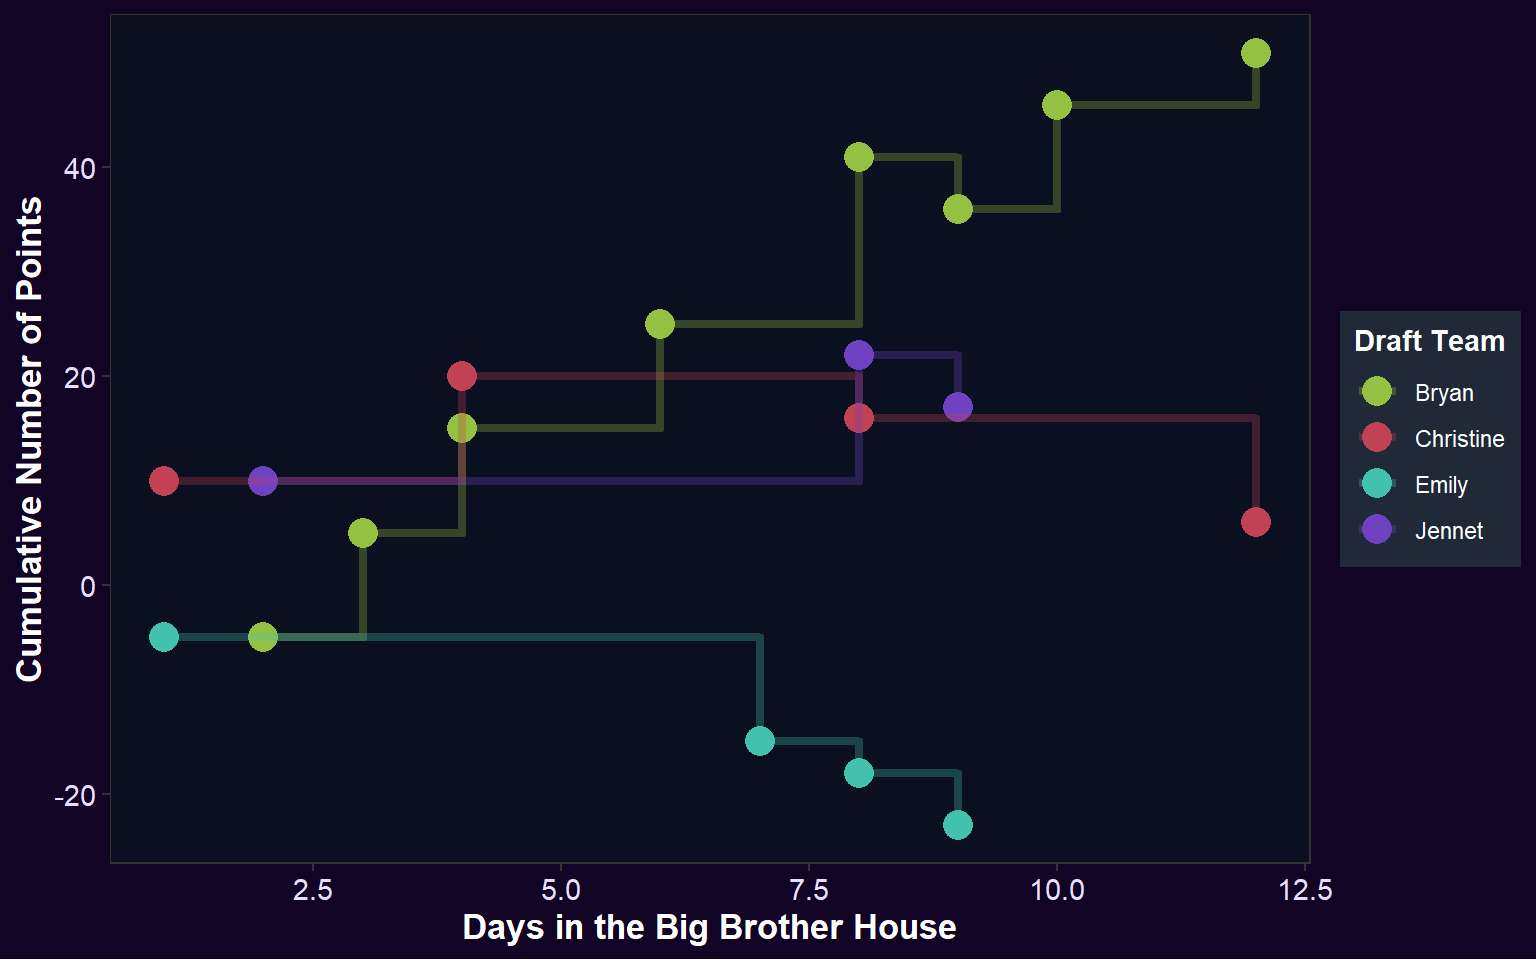
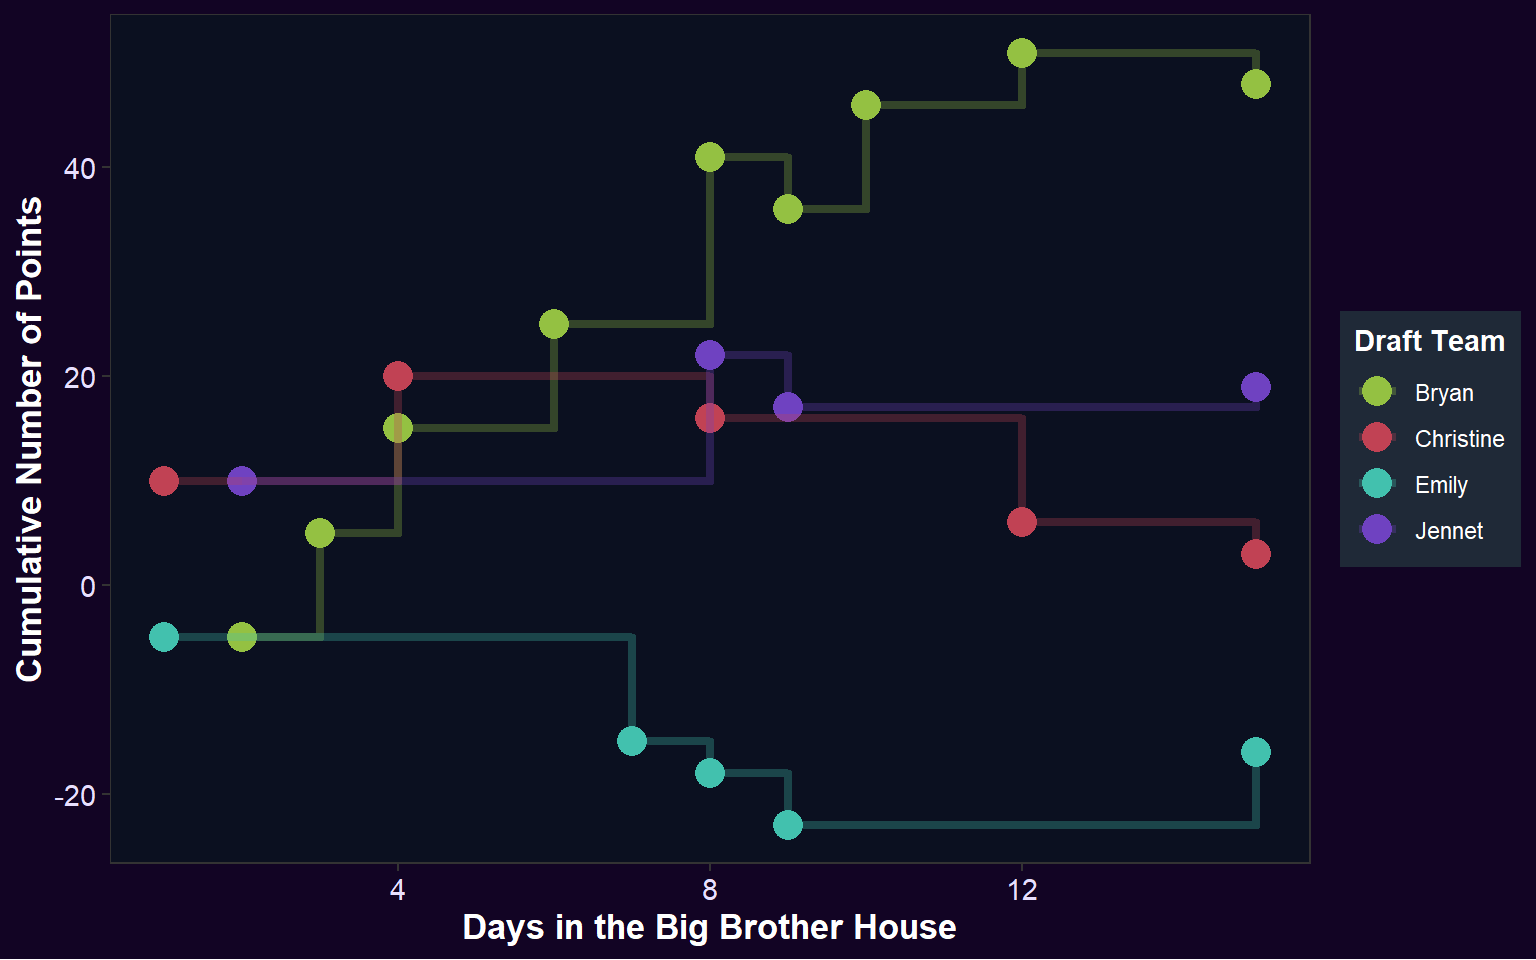
July 23

diff --git a/index.html b/index.html
@@ -133,7 +133,7 @@ grid-auto-rows: minmax(0, 1fr);">
 <td style="text-align: left;">Emily</td>
 <td style="text-align: right;">0</td>
 <td style="text-align: right;">0</td>
-<td style="text-align: right;">0</td>
+<td style="text-align: right;">1</td>
 <td style="text-align: right;">2</td>
 </tr>
 <tr class="even">
@@ -613,6 +613,118 @@ grid-auto-rows: minmax(0, 1fr);">
 <td style="text-align: left;">Christine</td>
 <td style="text-align: left;">Renominated</td>
 <td style="text-align: right;">-10</td>
+</tr>
+<tr class="odd">
+<td style="text-align: left;">July 23 2026</td>
+<td style="text-align: right;">2</td>
+<td style="text-align: left;">Jason</td>
+<td style="text-align: left;">Emily</td>
+<td style="text-align: left;">Wins BlockBuster</td>
+<td style="text-align: right;">10</td>
+</tr>
+<tr class="even">
+<td style="text-align: left;">July 23 2026</td>
+<td style="text-align: right;">2</td>
+<td style="text-align: left;">Melody</td>
+<td style="text-align: left;">Jennet</td>
+<td style="text-align: left;">Survives the Vote</td>
+<td style="text-align: right;">5</td>
+</tr>
+<tr class="odd">
+<td style="text-align: left;">July 23 2026</td>
+<td style="text-align: right;">2</td>
+<td style="text-align: left;">Jason</td>
+<td style="text-align: left;">Emily</td>
+<td style="text-align: left;">Shoutout During Live Evicition</td>
+<td style="text-align: right;">-1</td>
+</tr>
+<tr class="even">
+<td style="text-align: left;">July 23 2026</td>
+<td style="text-align: right;">2</td>
+<td style="text-align: left;">Yash</td>
+<td style="text-align: left;">Jennet</td>
+<td style="text-align: left;">Shoutout During Live Evicition</td>
+<td style="text-align: right;">-1</td>
+</tr>
+<tr class="odd">
+<td style="text-align: left;">July 23 2026</td>
+<td style="text-align: right;">2</td>
+<td style="text-align: left;">Dee</td>
+<td style="text-align: left;">Jennet</td>
+<td style="text-align: left;">Shoutout During Live Evicition</td>
+<td style="text-align: right;">-1</td>
+</tr>
+<tr class="even">
+<td style="text-align: left;">July 23 2026</td>
+<td style="text-align: right;">2</td>
+<td style="text-align: left;">Angela</td>
+<td style="text-align: left;">Christine</td>
+<td style="text-align: left;">Shoutout During Live Evicition</td>
+<td style="text-align: right;">-1</td>
+</tr>
+<tr class="odd">
+<td style="text-align: left;">July 23 2026</td>
+<td style="text-align: right;">2</td>
+<td style="text-align: left;">Barrett</td>
+<td style="text-align: left;">Emily</td>
+<td style="text-align: left;">Shoutout During Live Evicition</td>
+<td style="text-align: right;">-1</td>
+</tr>
+<tr class="even">
+<td style="text-align: left;">July 23 2026</td>
+<td style="text-align: right;">2</td>
+<td style="text-align: left;">Lyric</td>
+<td style="text-align: left;">Bryan</td>
+<td style="text-align: left;">Shoutout During Live Evicition</td>
+<td style="text-align: right;">-1</td>
+</tr>
+<tr class="odd">
+<td style="text-align: left;">July 23 2026</td>
+<td style="text-align: right;">2</td>
+<td style="text-align: left;">Mallory</td>
+<td style="text-align: left;">Bryan</td>
+<td style="text-align: left;">Shoutout During Live Evicition</td>
+<td style="text-align: right;">-1</td>
+</tr>
+<tr class="even">
+<td style="text-align: left;">July 23 2026</td>
+<td style="text-align: right;">2</td>
+<td style="text-align: left;">Drew</td>
+<td style="text-align: left;">Christine</td>
+<td style="text-align: left;">Shoutout During Live Evicition</td>
+<td style="text-align: right;">-1</td>
+</tr>
+<tr class="odd">
+<td style="text-align: left;">July 23 2026</td>
+<td style="text-align: right;">2</td>
+<td style="text-align: left;">LaTrice</td>
+<td style="text-align: left;">Jennet</td>
+<td style="text-align: left;">Shoutout During Live Evicition</td>
+<td style="text-align: right;">-1</td>
+</tr>
+<tr class="even">
+<td style="text-align: left;">July 23 2026</td>
+<td style="text-align: right;">2</td>
+<td style="text-align: left;">Haley</td>
+<td style="text-align: left;">Emily</td>
+<td style="text-align: left;">Shoutout During Live Evicition</td>
+<td style="text-align: right;">-1</td>
+</tr>
+<tr class="odd">
+<td style="text-align: left;">July 23 2026</td>
+<td style="text-align: right;">2</td>
+<td style="text-align: left;">Chuk</td>
+<td style="text-align: left;">Christine</td>
+<td style="text-align: left;">Shoutout During Live Evicition</td>
+<td style="text-align: right;">-1</td>
+</tr>
+<tr class="even">
+<td style="text-align: left;">July 23 2026</td>
+<td style="text-align: right;">2</td>
+<td style="text-align: left;">Kamu</td>
+<td style="text-align: left;">Bryan</td>
+<td style="text-align: left;">Shoutout During Live Evicition</td>
+<td style="text-align: right;">-1</td>
 </tr>
 </tbody>
 </table>
